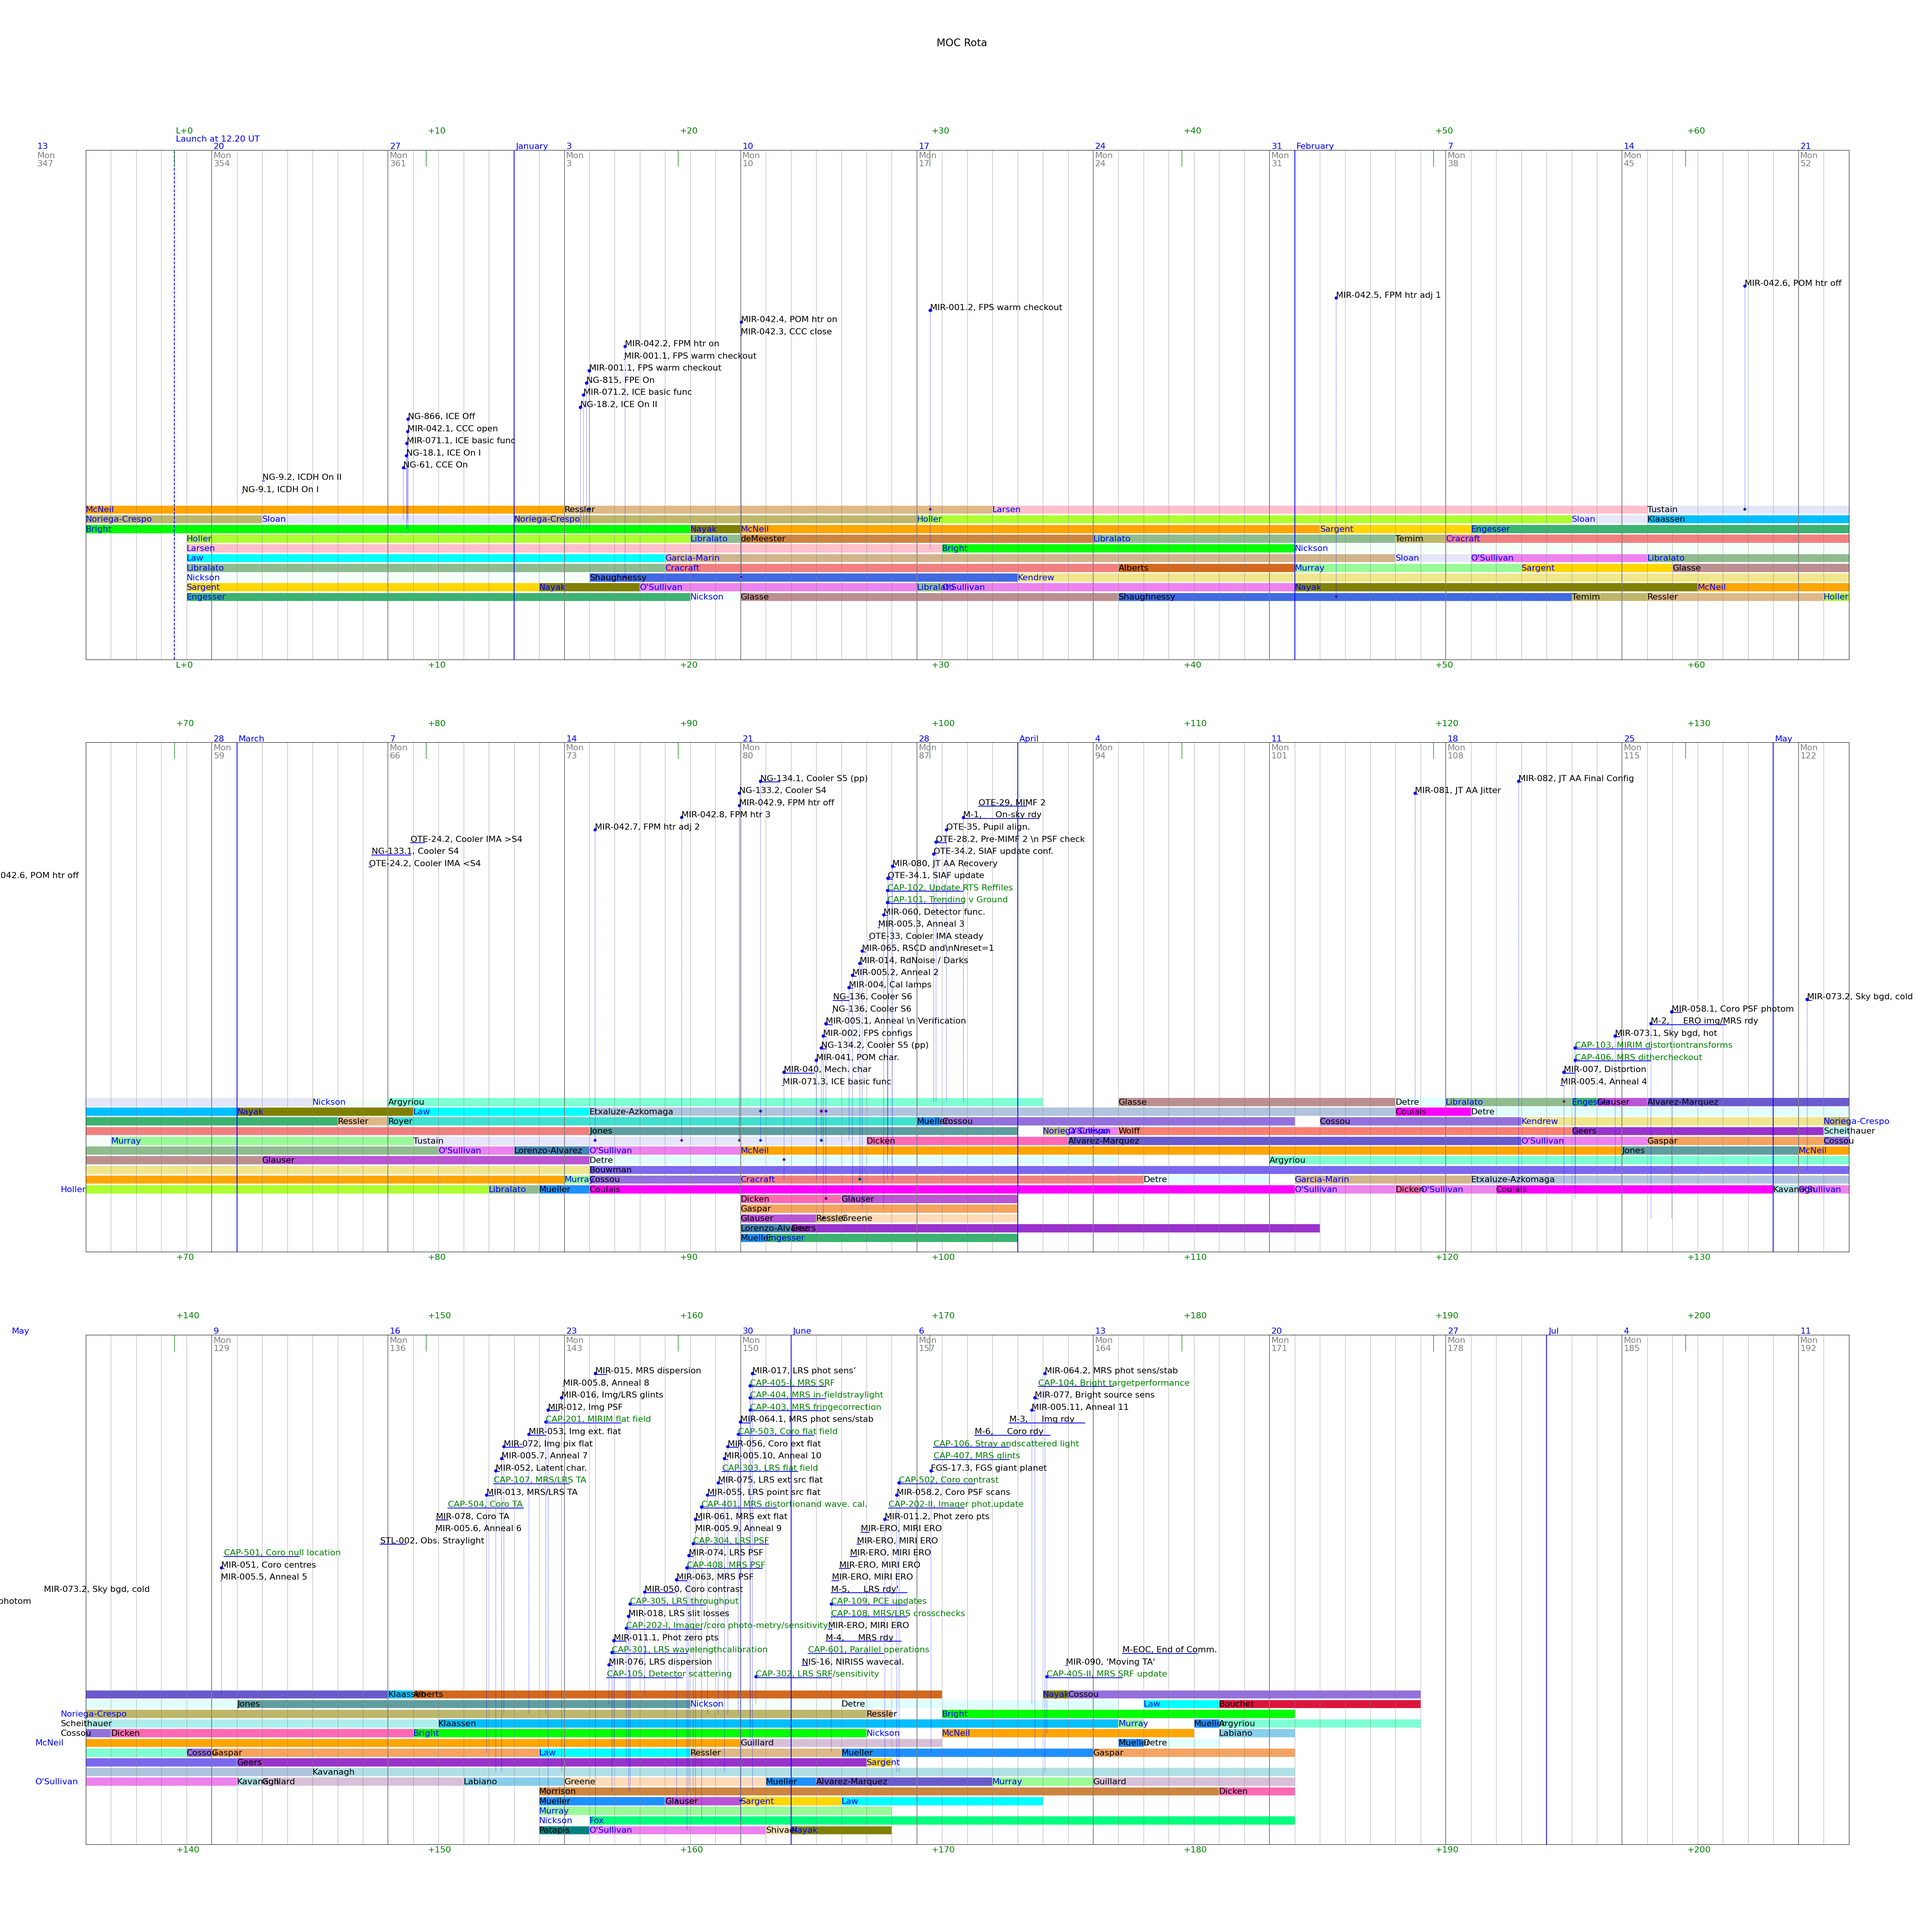
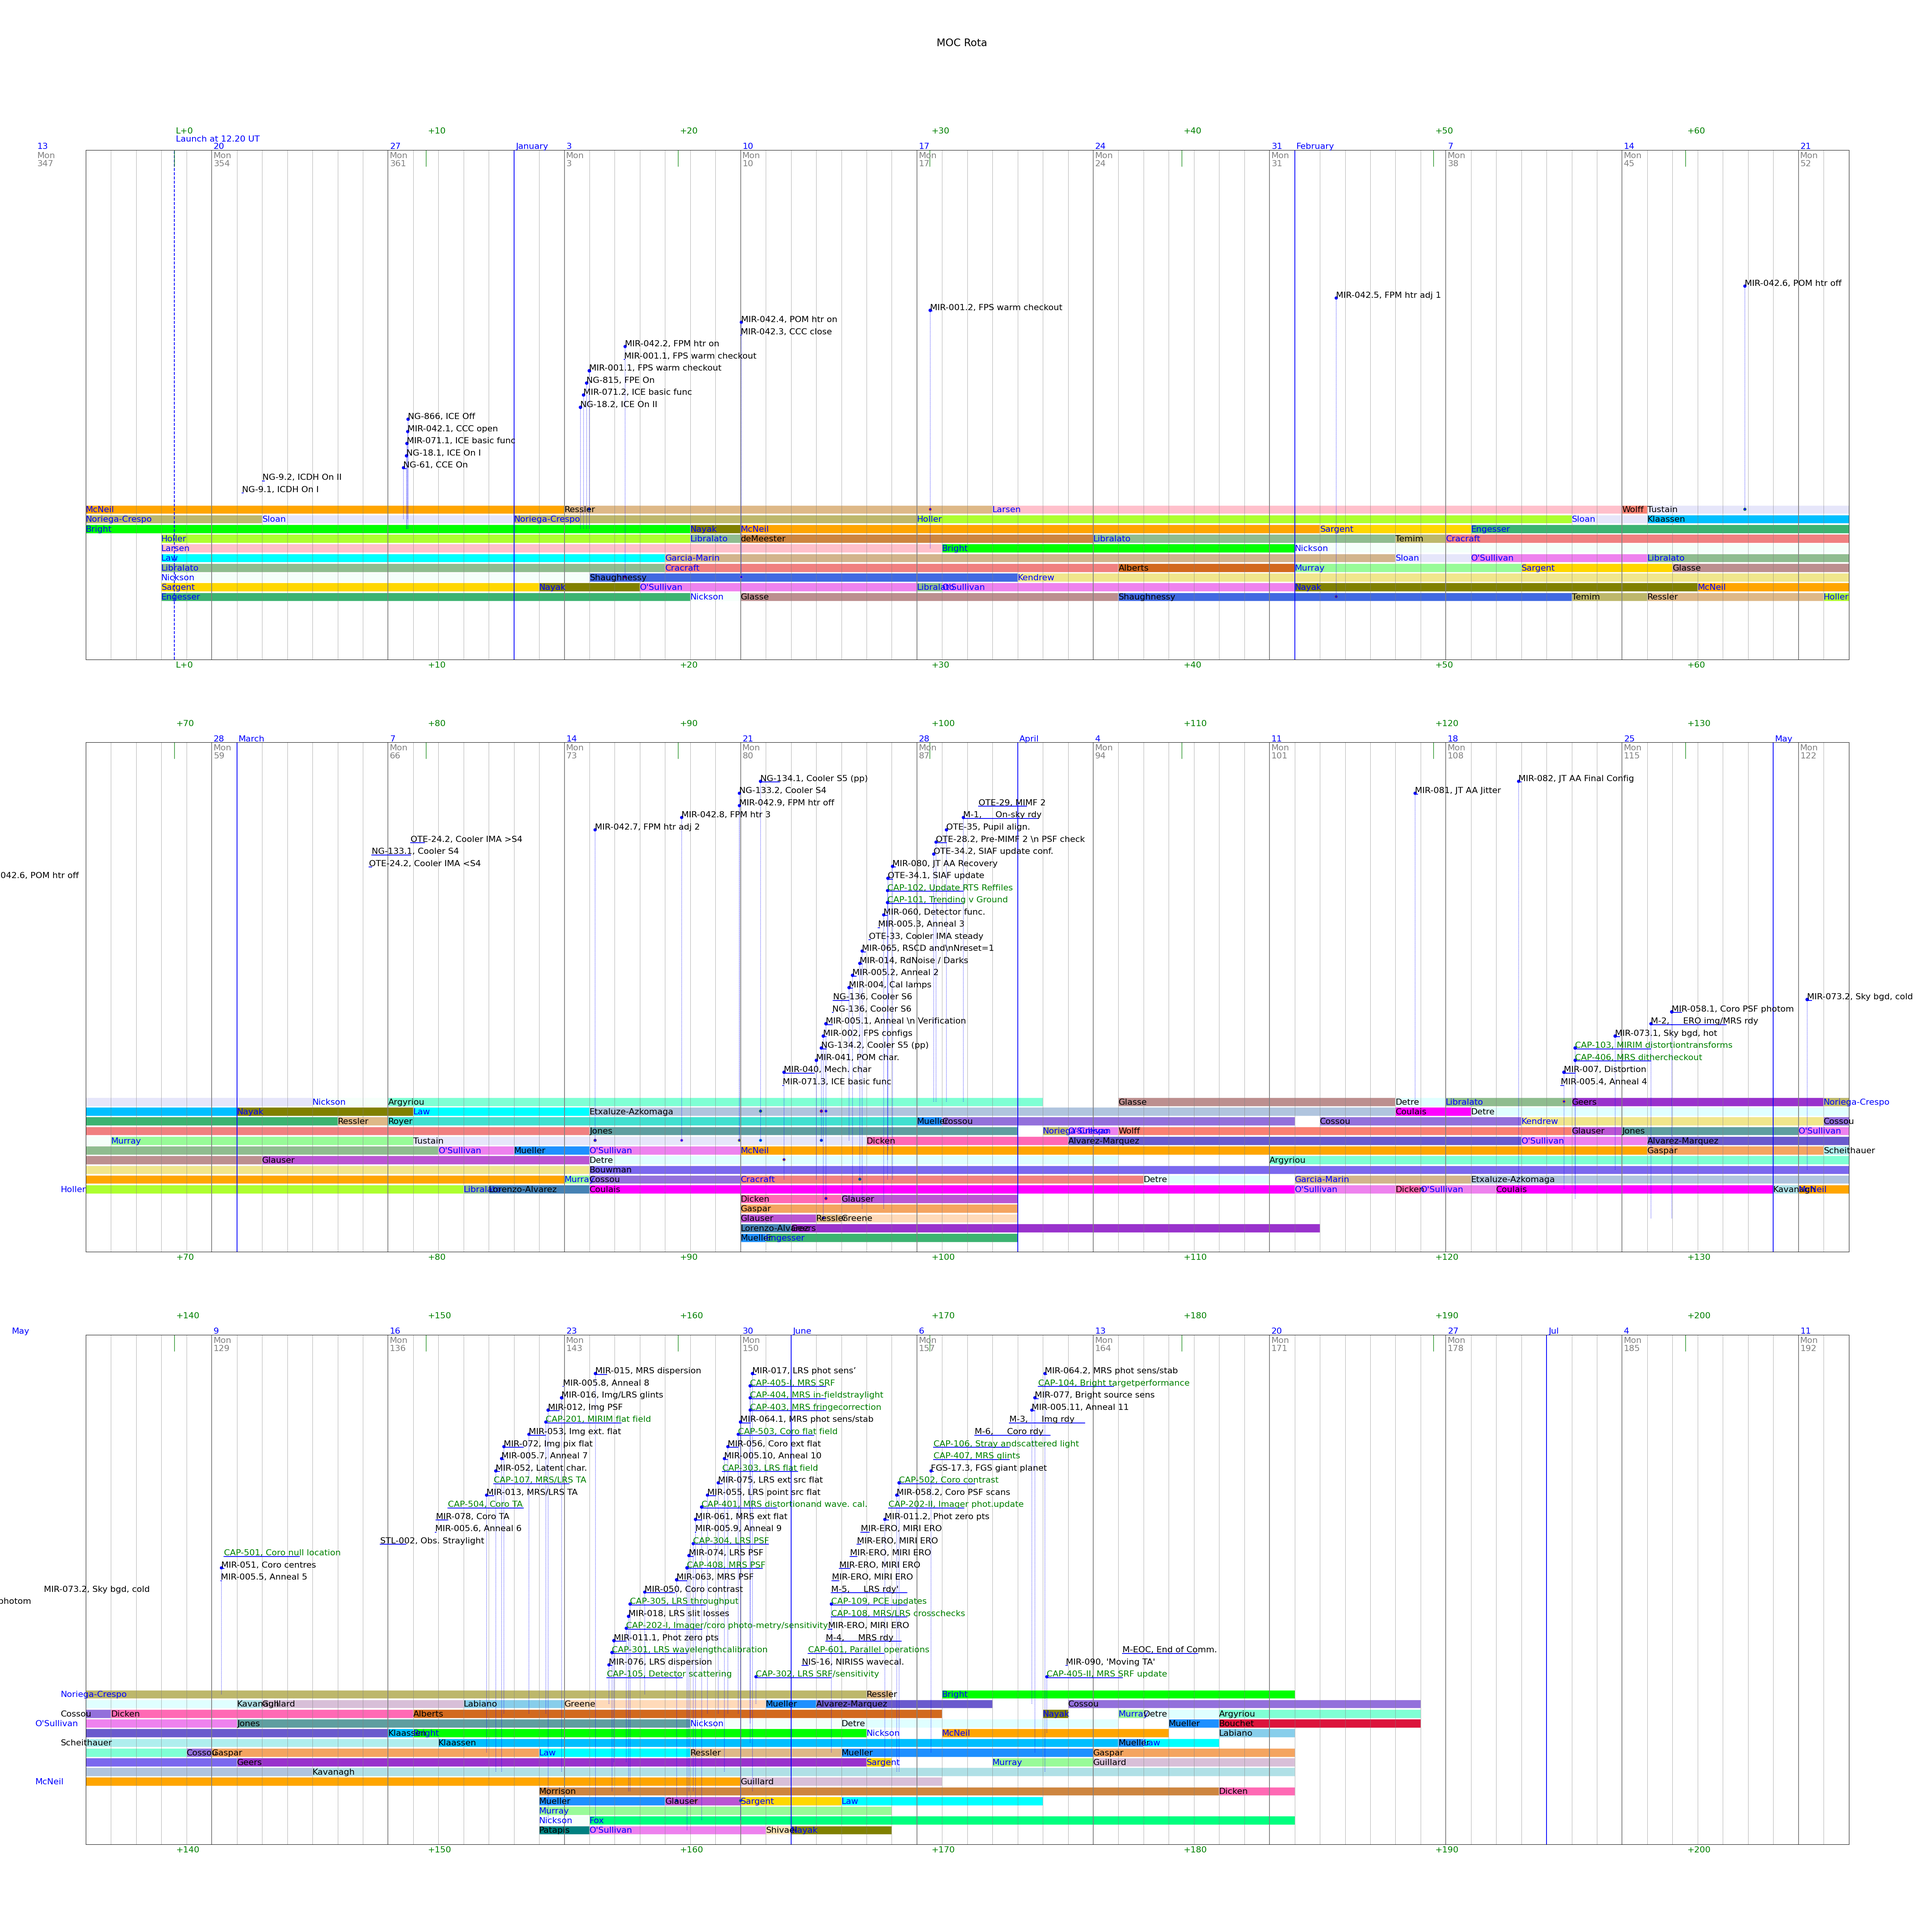
Assign 10 people on launch day...

diff --git a/source/shift_plan.py b/source/shift_plan.py
@@ -48,7 +48,7 @@ class ShiftPlan:
         n_slots_max = 15
         n_slots_nominal = 10                                            # More slots for peak stress
         daily_slot_quota = np.full((n_days), n_slots_nominal)           # Count of slots on each day
-        unusual_slots = [(-6, 0, 3), (93, 103, 15), (155, 168, 15), (185, 190, 3)]     # L+a L+b nshifts
+        unusual_slots = [(-6, -1, 3), (93, 103, 15), (155, 168, 15), (185, 190, 3)]     # L+a L+b nshifts
         for uslot in unusual_slots:
             col1 = uslot[0] - ShiftPlan.start_md
             col2 = uslot[1] - ShiftPlan.start_md
